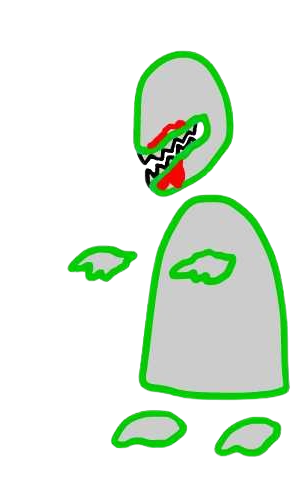
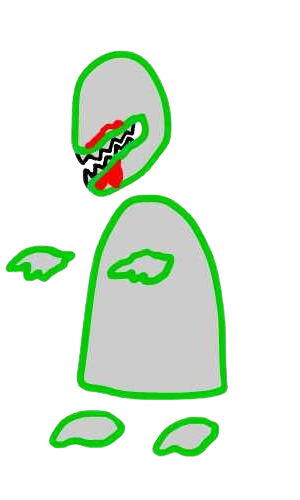
Finally got animations working

diff --git a/JavaScript/GameEngine.js b/JavaScript/GameEngine.js
@@ -26,11 +26,15 @@ document.querySelector("html").onkeypress = function(press){
     key = press.key;
 }
 
+let characterSpriteImage = 1;
+let characterWalkingSpriteImage = 1;
 let sprite = new Image();
 sprite.src = "./animations/man/idle/1.png";
 let zombies = 
 [
 ]
+
+let zombieSpriteImage = 1;
 let zombieSprite = new Image();
 zombieSprite.src = "./animations/zombie/walking/1.png";
 
@@ -43,6 +47,89 @@ zombies.push(
     }
 )
 
+function changeCharacterImage()
+{
+    switch (characterSpriteImage)
+    {
+        case 1:
+            sprite.src = "./animations/man/idle/2.png";
+            characterSpriteImage = 2;
+            break;
+        case 2:
+            sprite.src = "./animations/man/idle/3.png";
+            characterSpriteImage = 3;
+            break;
+        case 3:
+            sprite.src = "./animations/man/idle/4.png";
+            characterSpriteImage = 4;
+            break;
+        case 4:
+            sprite.src = "./animations/man/idle/1.png";
+            characterSpriteImage = 1;
+            break;
+    }
+}
+function changeCharacterWalkingImage()
+{
+    switch (characterWalkingSpriteImage)
+    {
+        case 1:
+            sprite.src = "./animations/man/walking/2.png";
+            characterWalkingSpriteImage = 2;
+            break;
+        case 2:
+            sprite.src = "./animations/man/walking/3.png";
+            characterWalkingSpriteImage = 3;
+            break;
+        case 3:
+            sprite.src = "./animations/man/walking/4.png";
+            characterWalkingSpriteImage = 4;
+            break;
+        case 4:
+            sprite.src = "./animations/man/walking/5.png";
+            characterWalkingSpriteImage = 5;
+            break;
+        case 5:
+            sprite.src = "./animations/man/walking/6.png";
+            characterWalkingSpriteImage = 6;
+            break;
+        case 6:
+            sprite.src = "./animations/man/walking/7.png";
+            characterWalkingSpriteImage = 7;
+            break;
+        case 7:
+            sprite.src = "./animations/man/walking/8.png";
+            characterWalkingSpriteImage = 8;
+            break;
+        case 8:
+            sprite.src = "./animations/man/walking/1.png";
+            characterWalkingSpriteImage = 1;
+            break;
+    }
+}
+function changeZombieImage()
+{
+    switch (zombieSpriteImage)
+    {
+        case 1:
+            zombieSprite.src = "./animations/zombie/walking/2.png";
+            zombieSpriteImage = 2;
+            break;
+        case 2:
+            zombieSprite.src = "./animations/zombie/walking/3.png";
+            zombieSpriteImage = 3;
+            break;
+        case 3:
+            zombieSprite.src = "./animations/zombie/walking/4.png";
+            zombieSpriteImage = 4;
+            break;
+        case 4:
+            zombieSprite.src = "./animations/zombie/walking/1.png";
+            zombieSpriteImage = 1;
+            break;
+    }
+}
+
 window.setInterval(function() {
     zombies.push(
         {
@@ -52,7 +139,11 @@ window.setInterval(function() {
             speed: getRandomInt(2) + 1
         }
     )
-}, getRandomInt(10000) + 10000)
+}, getRandomInt(3000))
+
+window.setInterval(changeCharacterWalkingImage, 100)
+
+window.setInterval(changeZombieImage, 50)
 function animate()
 {
     requestAnimationFrame(animate);

diff --git a/JavaScript/Game.js b/JavaScript/Game.js
@@ -9,10 +9,10 @@ function GameOverScreen(){
 }
 
 function drawCharacter(sprite, x, y){
-    context.drawImage(sprite, x, y, 65, 80);
+    context.drawImage(sprite, x, y, 55, 80);
 }
 
 function SpawnZombies(sprite, x, y)
 {
-    context.drawImage(sprite, x, y, 65, 80);
+    context.drawImage(sprite, x, y, 55, 80);
 }
